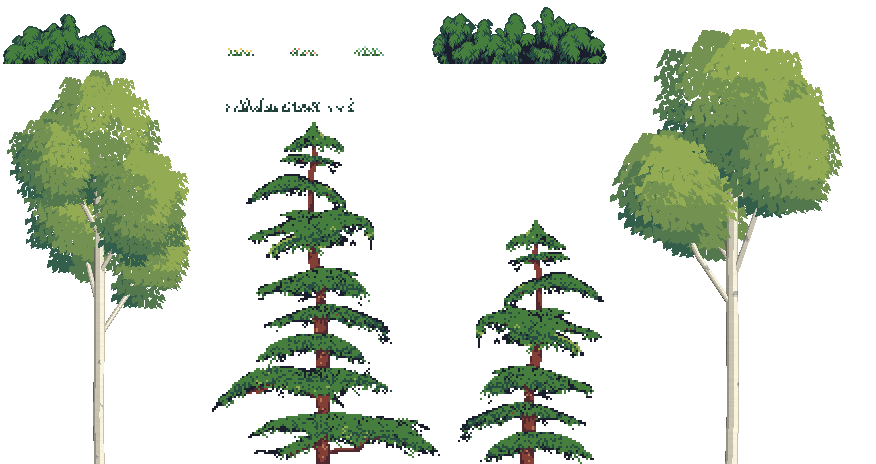
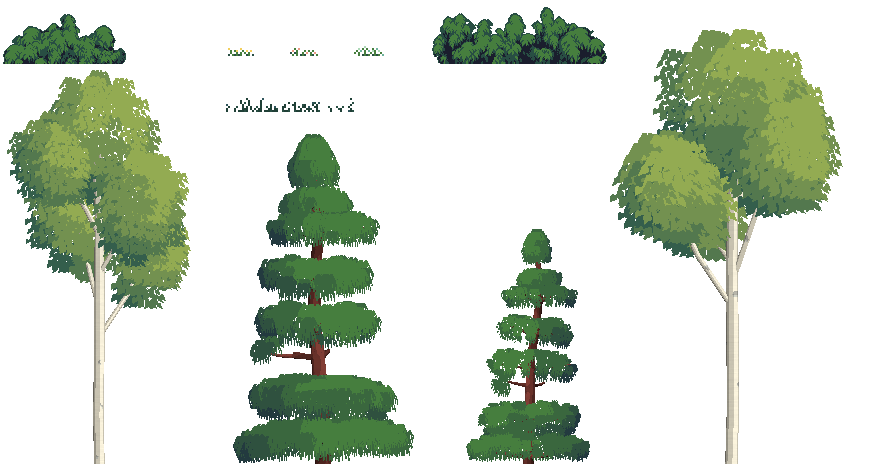
add pine tree models

Changed region(s): [[0.2466, 0.2716, 0.4932, 1.0], [0.524, 0.4828, 0.7089, 1.0]]

diff --git a/samples/golf/src/golf/OptionsState.cpp b/samples/golf/src/golf/OptionsState.cpp
@@ -1748,7 +1748,7 @@ void OptionsState::buildAVMenu(cro::Entity parent, const cro::SpriteSheet& sprit
             {
                 if (activated(evt))
                 {
-                    m_sharedData.treeQuality = (m_sharedData.treeQuality + 2) % 3;
+                    m_sharedData.treeQuality = 0;// (m_sharedData.treeQuality + 2) % 3;
                     treeQualityText.getComponent<cro::Text>().setString(TreeLabels[m_sharedData.treeQuality]);
                     centreText(treeQualityText);
                     m_audioEnts[AudioID::Accept].getComponent<cro::AudioEmitter>().play();
@@ -1761,7 +1761,7 @@ void OptionsState::buildAVMenu(cro::Entity parent, const cro::SpriteSheet& sprit
             {
                 if (activated(evt))
                 {
-                    m_sharedData.treeQuality = (m_sharedData.treeQuality + 1) % 3;
+                    m_sharedData.treeQuality = 2;// (m_sharedData.treeQuality + 1) % 3;
                     treeQualityText.getComponent<cro::Text>().setString(TreeLabels[m_sharedData.treeQuality]);
                     centreText(treeQualityText);
                     m_audioEnts[AudioID::Accept].getComponent<cro::AudioEmitter>().play();

diff --git a/samples/golf/src/editor/BushState.cpp b/samples/golf/src/editor/BushState.cpp
@@ -700,6 +700,7 @@ void BushState::loadModel(const std::string& path)
 
                 m_materials[j].materials[0] = mat;
                 m_materials[j].materials[1] = m_resources.materials.get(bushMaterial);
+                m_materials[j].materials[1].doubleSided = true;
             }
 
             m_models[i] = entity;
@@ -754,11 +755,11 @@ void BushState::loadPreset(const std::string& path)
             }
             else if (name == "randomness")
             {
-                treeset.randomAmount = std::max(treeset.randomAmount, std::min(1.f, p.getValue<float>()));
+                treeset.randomAmount = std::max(0.02f, std::min(1.f, p.getValue<float>()));
             }
             else if (name == "leaf_size")
             {
-                treeset.leafSize = std::max(treeset.leafSize, std::min(1.f, p.getValue<float>()));
+                treeset.leafSize = std::max(0.01f, std::min(1.f, p.getValue<float>()));
             }
             else if (name == "branch_index")
             {

diff --git a/samples/golf/src/golf/TerrainBuilder.cpp b/samples/golf/src/golf/TerrainBuilder.cpp
@@ -428,6 +428,10 @@ void TerrainBuilder::create(cro::ResourceCollection& resources, cro::Scene& scen
                                 material.setProperty("u_leafSize", theme.treesets[j].leafSize);
                                 material.setProperty("u_randAmount", theme.treesets[j].randomness);
                             }
+                            else
+                            {
+                                material.doubleSided = true; //hides the cracks that may appear. A bit.
+                            }
                             material.setProperty("u_colour", theme.treesets[j].colour);
 
 
